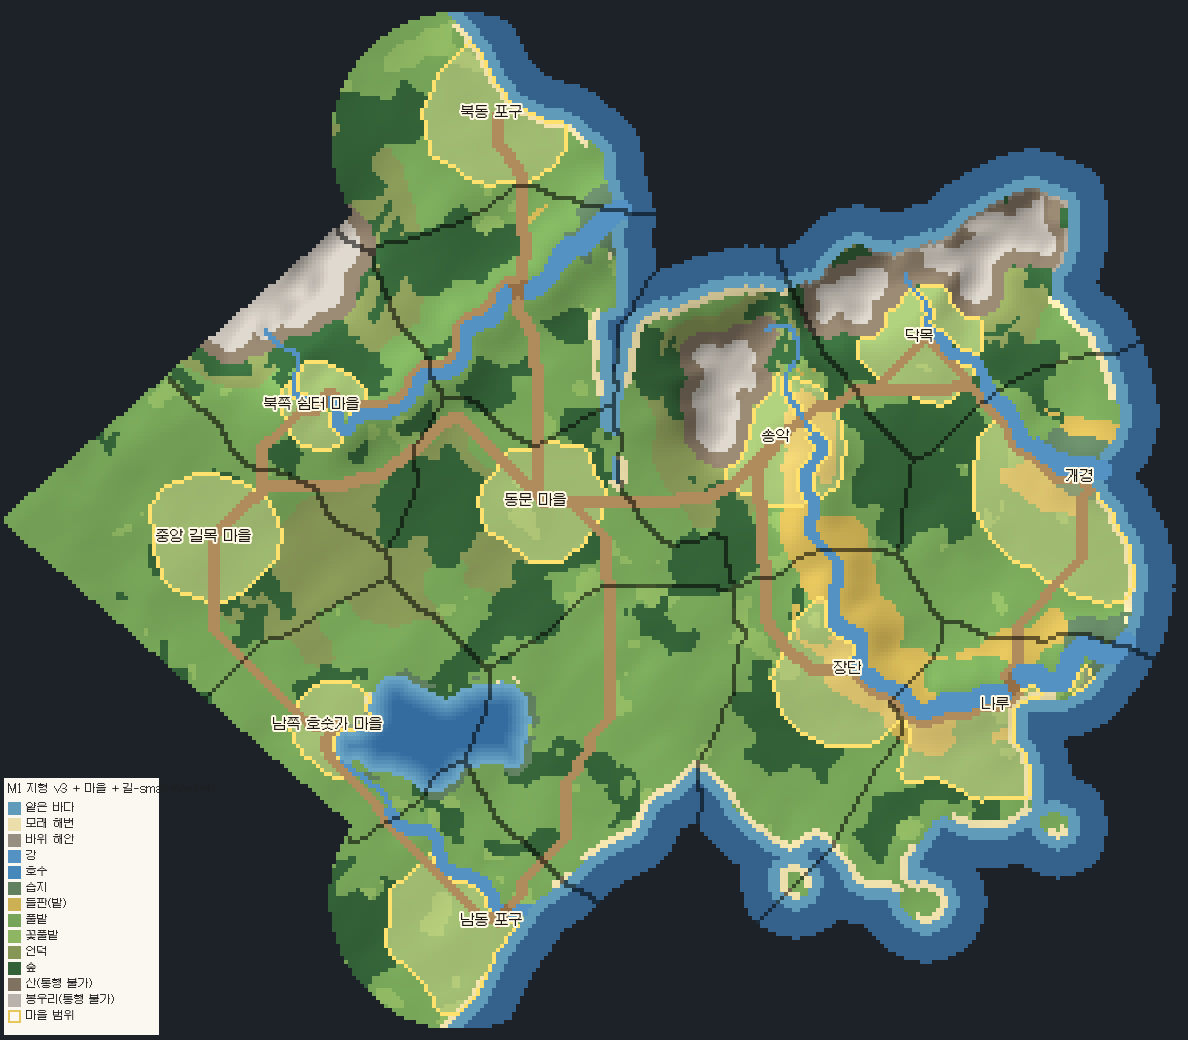
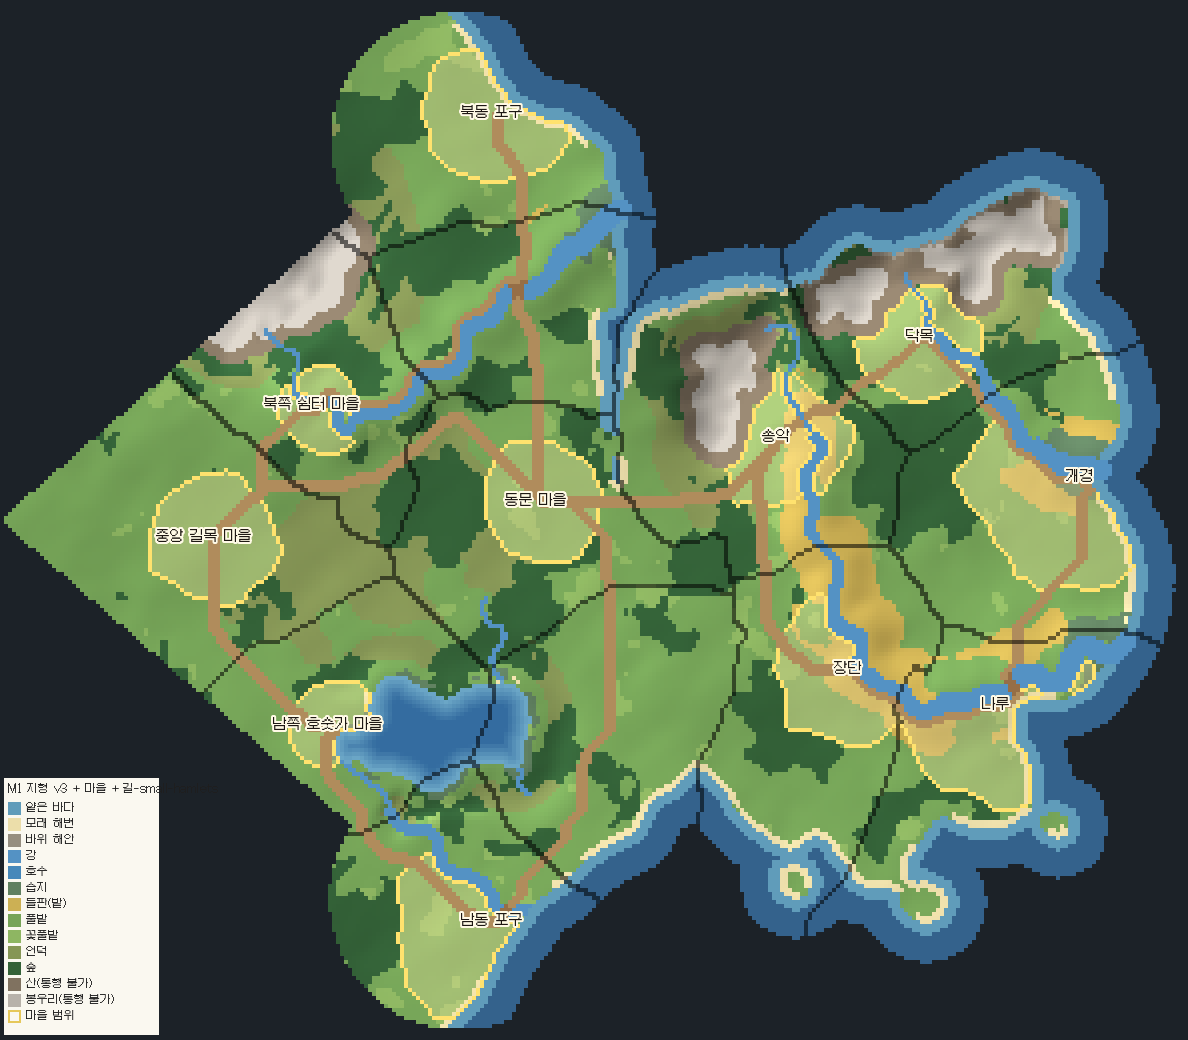
M1 v6: 10-cell village margin inside map boundaries; lake basin with hill ring, two inflows and one outlet
Claude-Session: https://claude.ai/code/session_01LeGdCGGAkPbpRa1d2kF6Yd

diff --git a/Tools/WorldLayout/terrain_v3.py b/Tools/WorldLayout/terrain_v3.py
@@ -267,16 +267,31 @@ def build(layout):
         r0=tuple(np.argwhere(rim)[np.argmin(E[rim])])
         sy,sx=np.nonzero(sea);k_=int(np.argmin((sy-r0[0])**2+(sx-r0[1])**2))
         out=astar(r0,(int(sy[k_]),int(sx[k_])),cost,blocked=np.isin(t,[MOUNTAIN,PEAK]),eight=True)
-        # 들어오는 개울: 호수 반대편 둘레 언덕 → 호수
+        # 호수가 성립하는 지형: 큰 호수는 둘레가 높은 분지여야 물이 고인다. 출구(바다 쪽) 한 곳만 낮게 두고
+        # 나머지 둘레에 언덕·숲을 세워 집수 지역을 만들고, 그 언덕에서 개울 둘이 흘러든다.
         cy,cx=np.argwhere(m).mean(0);oy,ox=r0
-        vy,vx=cy-oy,cx-ox;L=math.hypot(vy,vx) or 1
-        ty_,tx_=int(cy+vy/L*28),int(cx+vx/L*28)
-        hill=np.argwhere(east&land&~m&~np.isin(t,[MOUNTAIN,PEAK])&(((yy_-ty_)**2+(xx_-tx_)**2)<12**2))
+        dl=ndimage.distance_transform_edt(~m)
+        ang_out=math.atan2(oy-cy,ox-cx);ang=np.arctan2(yy_-cy,xx_-cx)
+        gap=np.abs((ang-ang_out+np.pi)%(2*np.pi)-np.pi)<math.radians(38)   # 출구 쪽은 열어 둔다
+        ringz=(dl>=3)&(dl<=16)&~gap&east&land&~river&far
+        bump=np.exp(-((dl-8)/4.5)**2)*(.7+.6*forest_n)
+        hillring=ringz&(bump>.55)
+        t[hillring&(forest_n>.42)]=FOREST;t[hillring&(forest_n<=.42)]=HILL
+        elev=np.where(ringz,np.maximum(elev,np.quantile(elev[land],.82)*bump+elev*(1-bump)),elev)
+        lk['hillCells']=int(hillring.sum())
+        # 들어오는 개울 2개: 출구 반대편 ±55° 방향의 언덕 → 호수
         inflow=[]
-        if len(hill):
+        for side in (-1,1):
+            a_=ang_out+math.pi+side*math.radians(55)
+            hy,hx=int(cy+math.sin(a_)*(math.sqrt(m.sum()/math.pi)+12)),int(cx+math.cos(a_)*(math.sqrt(m.sum()/math.pi)+12))
+            hill=np.argwhere(east&land&~m&~river&~np.isin(t,[MOUNTAIN,PEAK])&(((yy_-hy)**2+(xx_-hx)**2)<6**2))
+            if not len(hill):continue
             h0=tuple(hill[np.argmax(elev[tuple(hill.T)])])
             mc=np.argwhere(m);m0=tuple(mc[np.argmin(((mc-np.array(h0))**2).sum(1))])
-            inflow=astar(h0,m0,cost,blocked=np.isin(t,[MOUNTAIN,PEAK]),eight=True)
+            seg=astar(h0,m0,1+10*elev,blocked=np.isin(t,[MOUNTAIN,PEAK]),eight=True)
+            inflow.append(seg)
+            # 개울이 들어오는 곳에 작은 습지(삼각주)
+            yy3,xx3=m0;t[(((yy_-yy3)**2+(xx_-xx3)**2)<3.5**2)&land&~m&(marsh_n>.35)]=MARSH
         def meander(path,amp_=2.6,lam_=13):
             # A* 길을 따라가며 옆으로 흔들어 굽이치게(땅 위에서만)
             if len(path)<8:return path
@@ -288,7 +303,7 @@ def build(layout):
                 q=(int(round(y-tx/L_*o)),int(round(x+ty/L_*o)))
                 out_.append(q if 0<=q[0]<H and 0<=q[1]<W and (land[q] or sea[q]) and not m[q] else (y,x))
             return smooth_path(out_,np.zeros((H,W),bool))
-        for path,width in ((out,1.2),(inflow,.8)):
+        for path,width in [(out,1.2)]+[(q_,.8) for q_ in inflow]:
             pts=meander(path)
             for i_,(y,x) in enumerate(pts):
                 rad=width*(.7+.5*i_/max(1,len(pts))) if path is out else width
@@ -297,7 +312,7 @@ def build(layout):
                     for dx in range(-rr,rr+1):
                         yy2,xx2=y+dy,x+dx
                         if dy*dy+dx*dx<=rad*rad and 0<=yy2<H and 0<=xx2<W and land[yy2,xx2] and not m[yy2,xx2]:river[yy2,xx2]=True
-        lk['outletCells']=len(out);lk['inflowCells']=len(inflow)
+        lk['outletCells']=len(out);lk['inflowCells']=[len(q_) for q_ in inflow]
     t[river]=RIVER
     d_river=ndimage.distance_transform_edt(~(river|lake))
     shore=ndimage.binary_dilation(lake,iterations=2)&land&~lake&~river
@@ -415,6 +430,13 @@ def partition(layout,w,road=None):
     for _ in range(3):
         cnt=np.stack([ndimage.uniform_filter((new==i).astype(float),size=5) for i in range(len(keys))])
         cnt=np.where(regmask,cnt,-1);sm=np.argmax(cnt,0);sm[~owned]=-1;new=sm
+    # 마을 둘레 여유: 마을 범위에서 10칸 안은 그 마을 맵(경계가 마을에 바짝 붙지 않게)
+    MARGIN=10;best=np.full((H,W),np.inf);own=np.full((H,W),-1)
+    for i,k in enumerate(keys):
+        if not any(tw['key']==k or tw.get('hamlet')==k for tw in towns):continue
+        dd=ndimage.distance_transform_edt(~seeds[k])
+        z=(dd<=MARGIN)&regmask[i]&owned&(dd<best);best[z]=dd[z];own[z]=i
+    new[own>=0]=own[own>=0]
     # 마을은 반드시 자기 맵 안에
     for i,k in enumerate(keys):new[seeds[k]]=i
     # 작은 떨어진 조각은 둘러싼 맵으로
@@ -570,7 +592,7 @@ def main():
     partition(layout,w,r)
     counts={NAMES[k]:int((w['t']==k).sum()) for k in range(1,16)}
     render(w,OUT/f'terrain-villages{sfx}.png',title='M1 지형 v3 + 마을 범위'+sfx)
-    report=dict(seed=SEED,landCells=land_before,classCounts=counts,rivers=w['rivers'],villages=w['villages'],maps=w['maps'])
+    report=dict(seed=SEED,landCells=land_before,classCounts=counts,rivers=w['rivers'],villages=w['villages'],maps=w['maps'],lakes=[{k:v for k,v in l.items()} for l in w['lakes']])
     if r:
         render(w,OUT/f'terrain-villages-roads{sfx}.png',road=r,title='M1 지형 v3 + 마을 + 길'+sfx)
         render(w,OUT/f'maps{sfx}.png',road=r,title='맵 경계(색=맵)'+sfx,tint=True)
